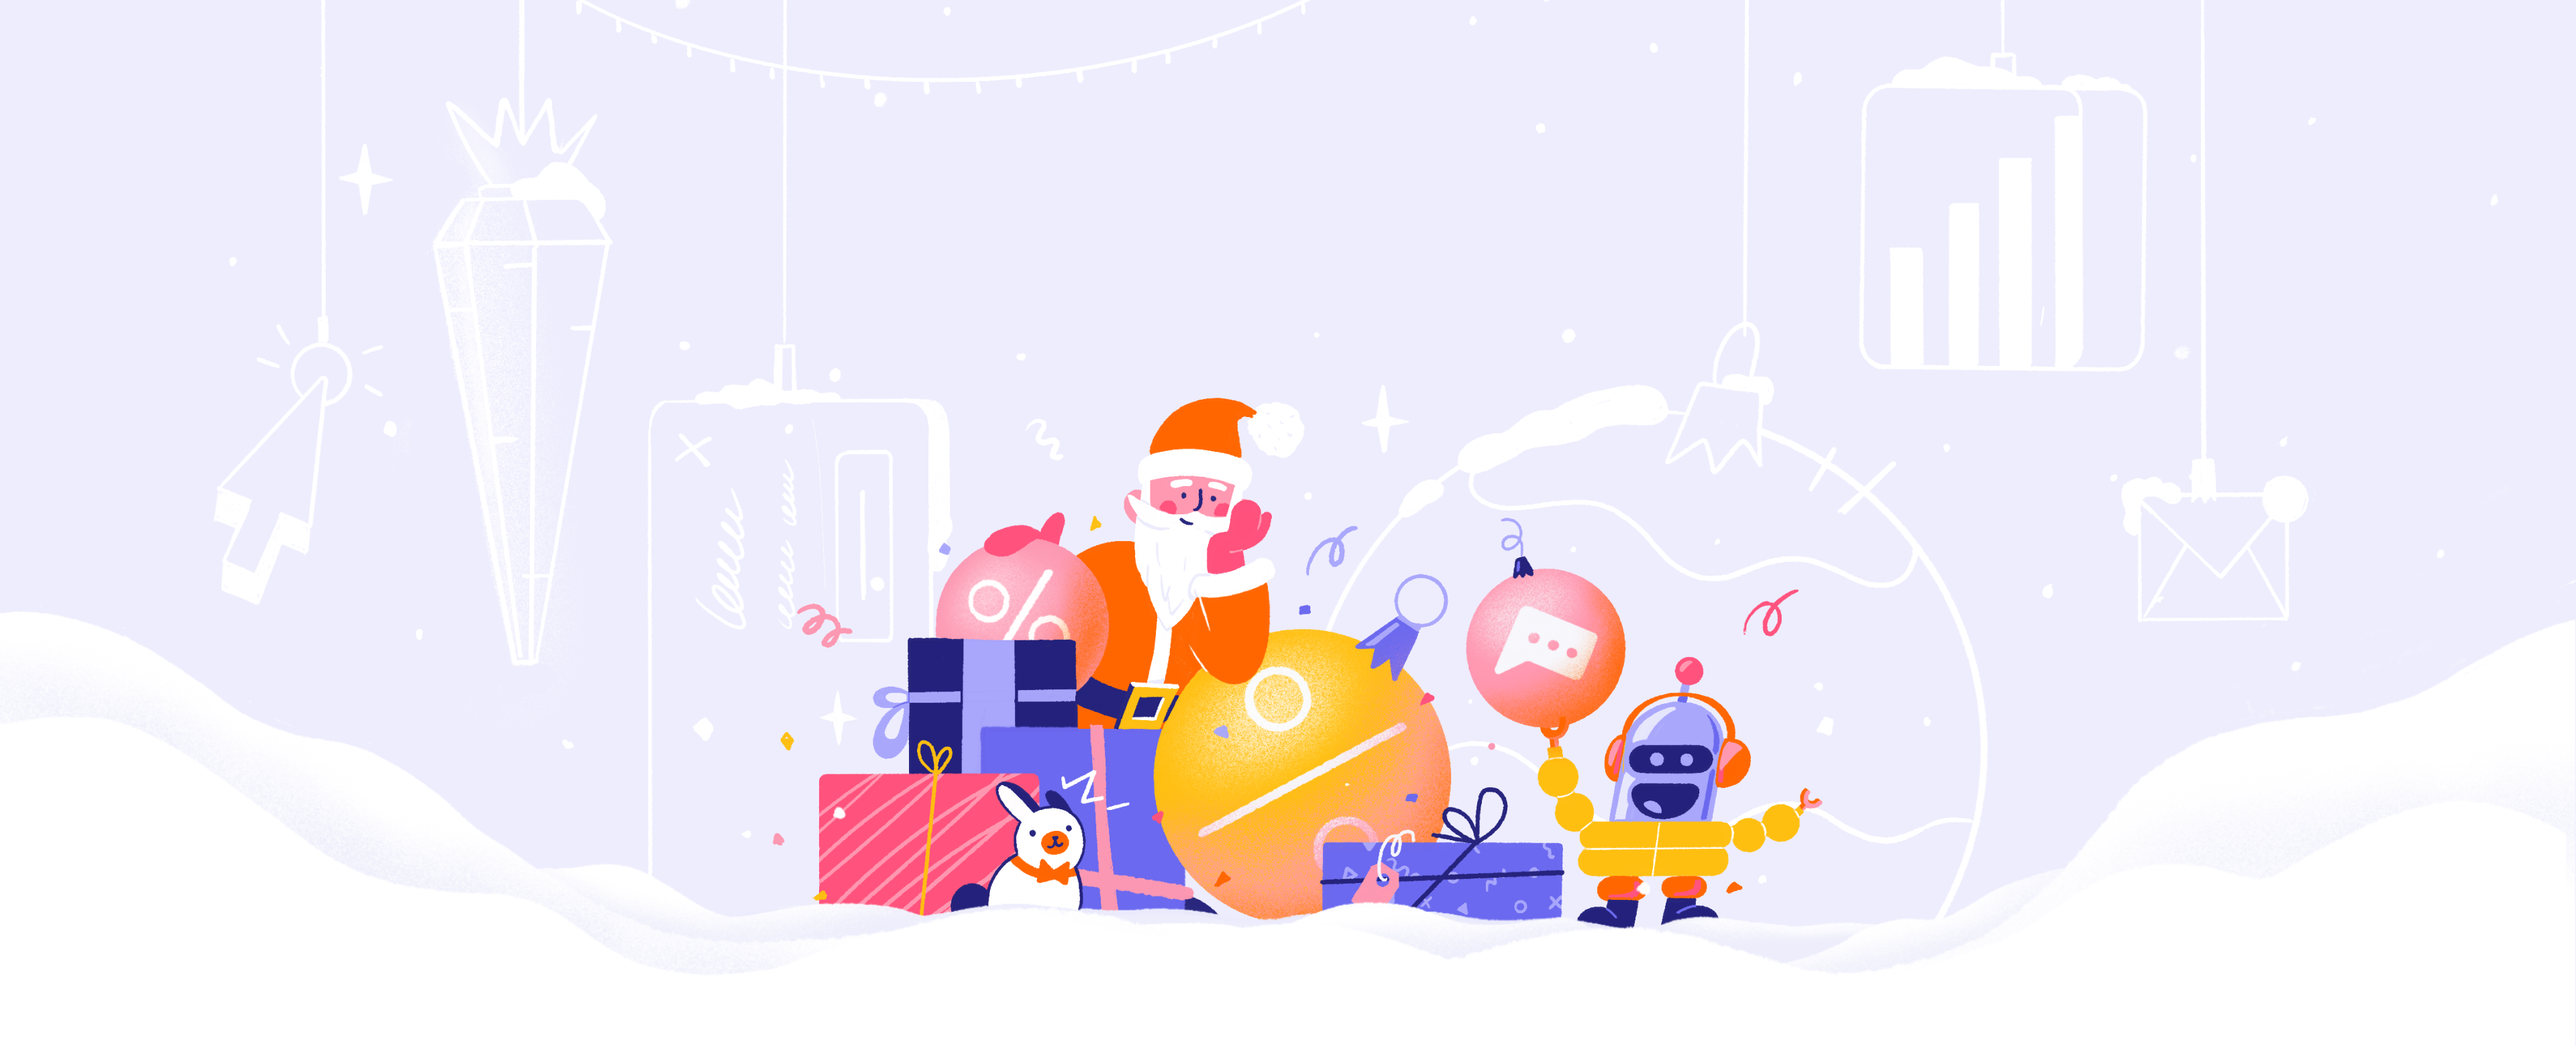
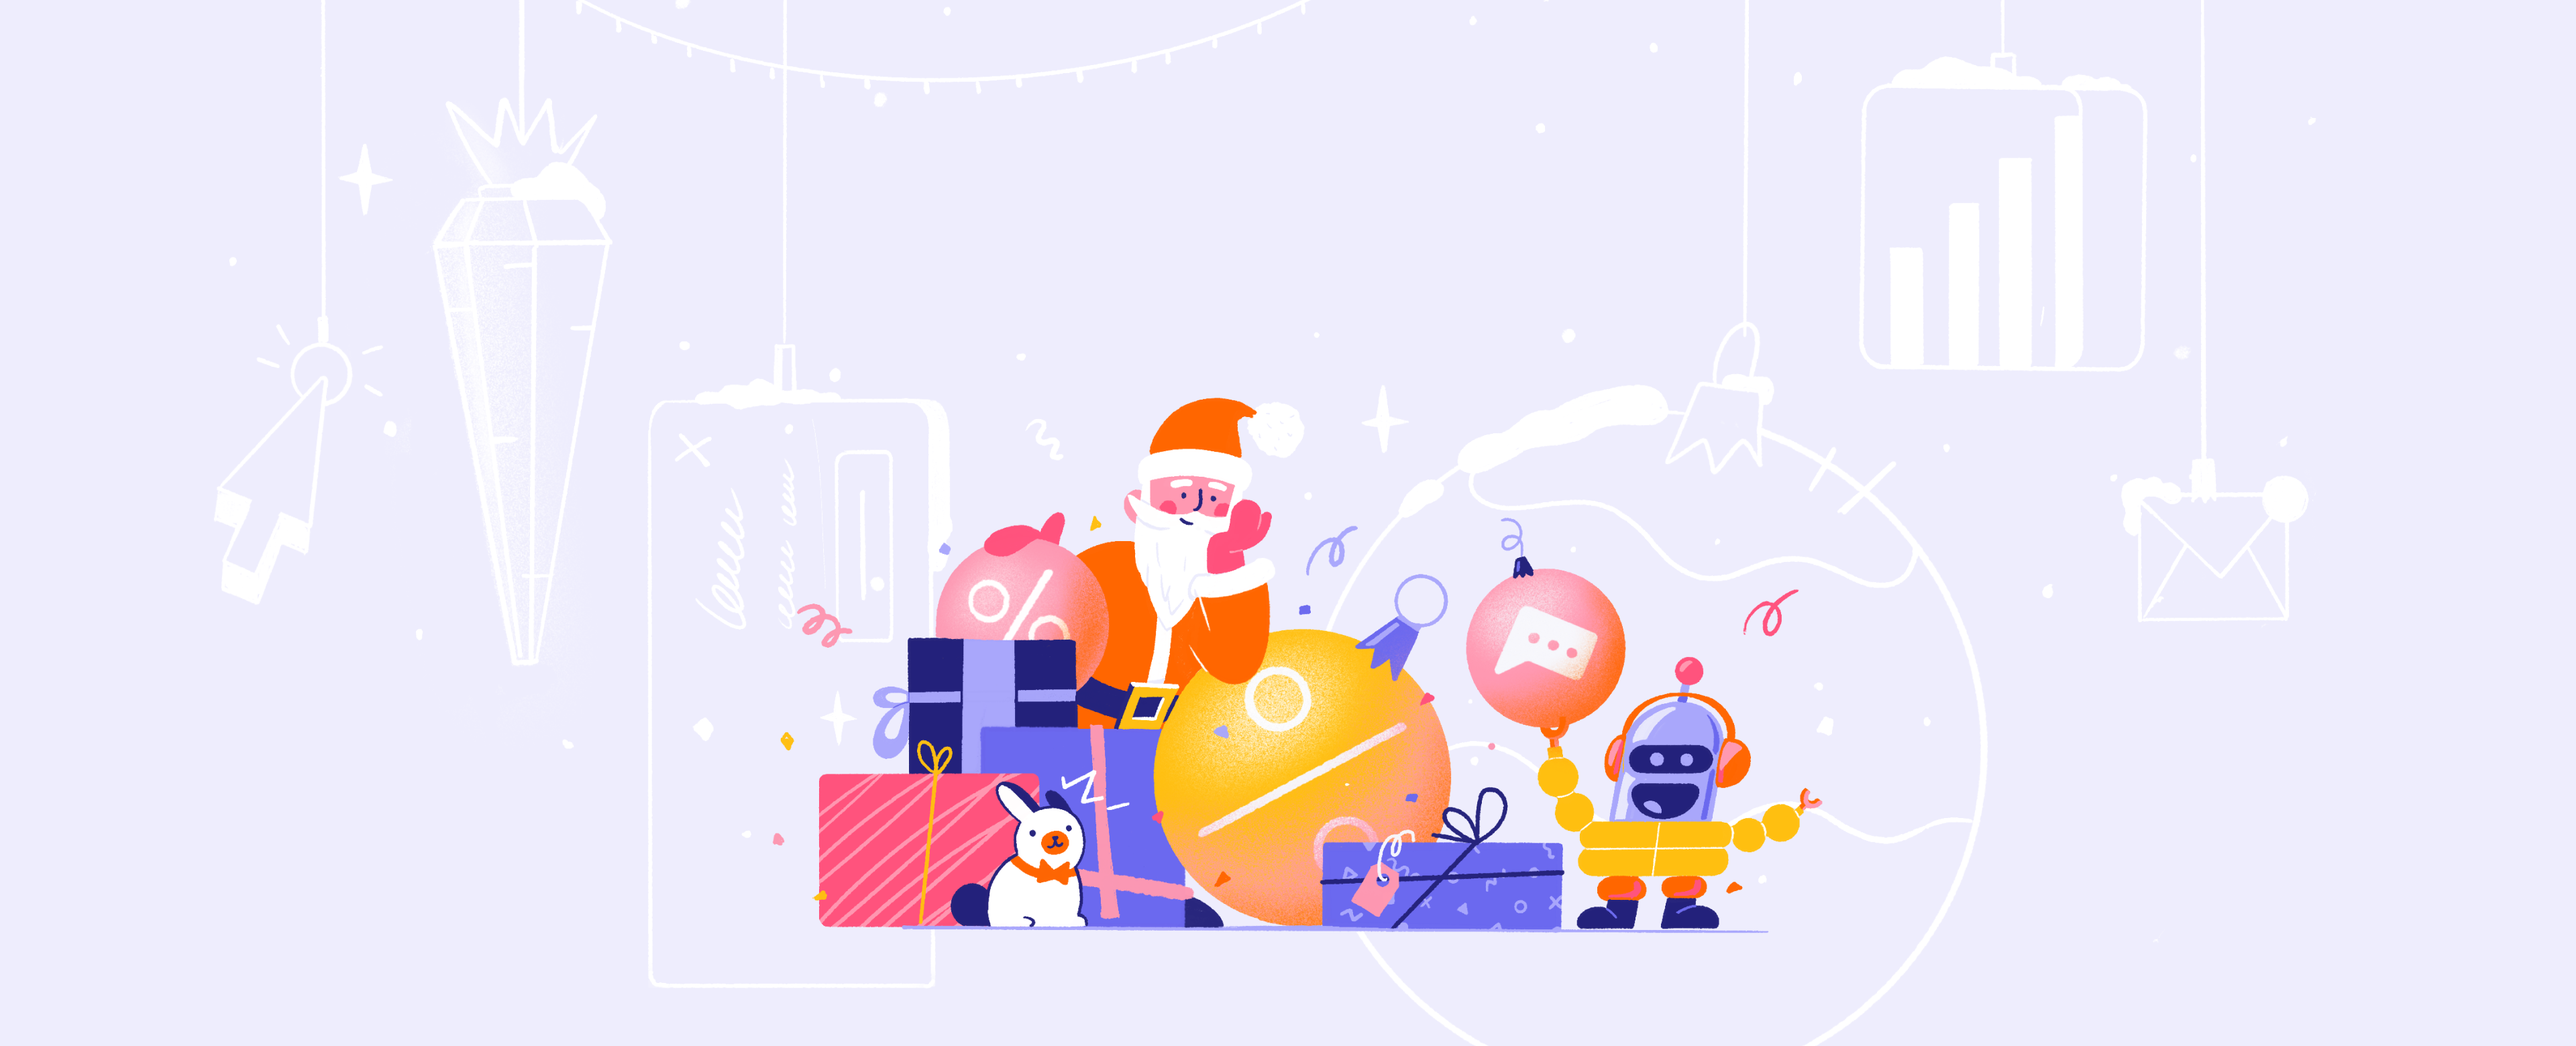
update

Changed region(s): [[0.3125, 0.8615, 0.6875, 0.8923]]

diff --git a/src/pages/Newyear2021.vue b/src/pages/Newyear2021.vue
@@ -21,6 +21,7 @@
 				
 				<!-- Фоновое изображение -->
 				<g-image class="hero__pic" src="@/assets/images/newyear2021/hero.png" width="1980" height="804" alt=" " />
+				<g-image class="hero__snow" src="@/assets/images/newyear2021/hero__snow.png" width="1980" height="804" alt=" " />
 				
 			</b-container>
 		</div>
@@ -274,7 +275,7 @@
 		//Делаем в HEAD
 		metaInfo() {
 			return {
-				title: 'Инструменты для увеличения продаж на сайтах без привлечения нового трафика',
+				title: 'Только до 1 января. Скидки на Carrot quest – 40% при покупке годовой подписки. 🤘 🎄',
 				meta: [
 					{
 						key: 'description',
@@ -304,7 +305,7 @@
 		overflow: hidden;
 		.blue {
 			margin-bottom: 9rem;
-			background-color: #F5F6FE;
+			background-color: #EEEDFD;
 		}
 
 		//Главный экран
@@ -330,6 +331,15 @@
 				left: 50%;
 				margin-left: -990px;
 			}
+			&__snow {
+				position: absolute;
+				z-index: 6;
+				top: 0;
+				left: 0;
+				width: 100%;
+				height: 100%;
+			}
+
 		}
 
 		//Скидки
@@ -455,6 +465,12 @@
 					width: 1477px;
 					height: 600px;
 					margin-left: -738px;
+				}
+				&__snow {
+					width: 1477px;
+					height: 600px;
+					margin-left: -738px;
+					left: 50%;
 				}
 			}
 		}
